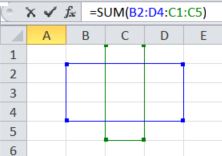
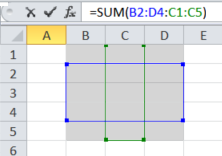
Marked area gray in Fig 5

diff --git a/xlGrammar.tex b/xlGrammar.tex
@@ -320,7 +320,7 @@ Adding support for full filenames can be achieved by introducing an additional t
 \end{figure}
 
 \begin{figure}
-	\caption{Syntax diagram of the \synt{Formula} production rule with most production rules expanded.}
+	\caption{Syntax diagram of the \synt{Formula} production rule with most production rules expanded}
 	\label{figure:Formula}
 \begin{grammar}
 	<Formula> ::= \begin{syntdiag}[\footnotesize\sdlengths]
@@ -337,7 +337,7 @@ Adding support for full filenames can be achieved by introducing an additional t
 \end{grammar}
 \end{figure}
 \begin{figure*}
-	\caption{Syntax diagram of the \synt{Reference} production rule with nonterminals expanded.}
+	\caption{Syntax diagram of the \synt{Reference} production rule with nonterminals expanded}
 	\label{figure:Reference}
 	\centering
 	\begin{grammar}
@@ -575,7 +575,7 @@ There are two constructs in the spreadsheet formula grammar that we consider to 
 	\begin{subfigure}[b]{0.3\textwidth}
 		\centering
 		\includegraphics{complexRanges}
-		\caption{A range with four limits, equivalent to \texttt{B1:D5}}
+		\caption{A range with four limits, equivalent to \texttt{B1:D5} and the area marked gray}
 		\label{fig:complexA}
 	\end{subfigure}
 	~ %add desired spacing between images, e. g. ~, \quad, \qquad, \hfill etc. 
